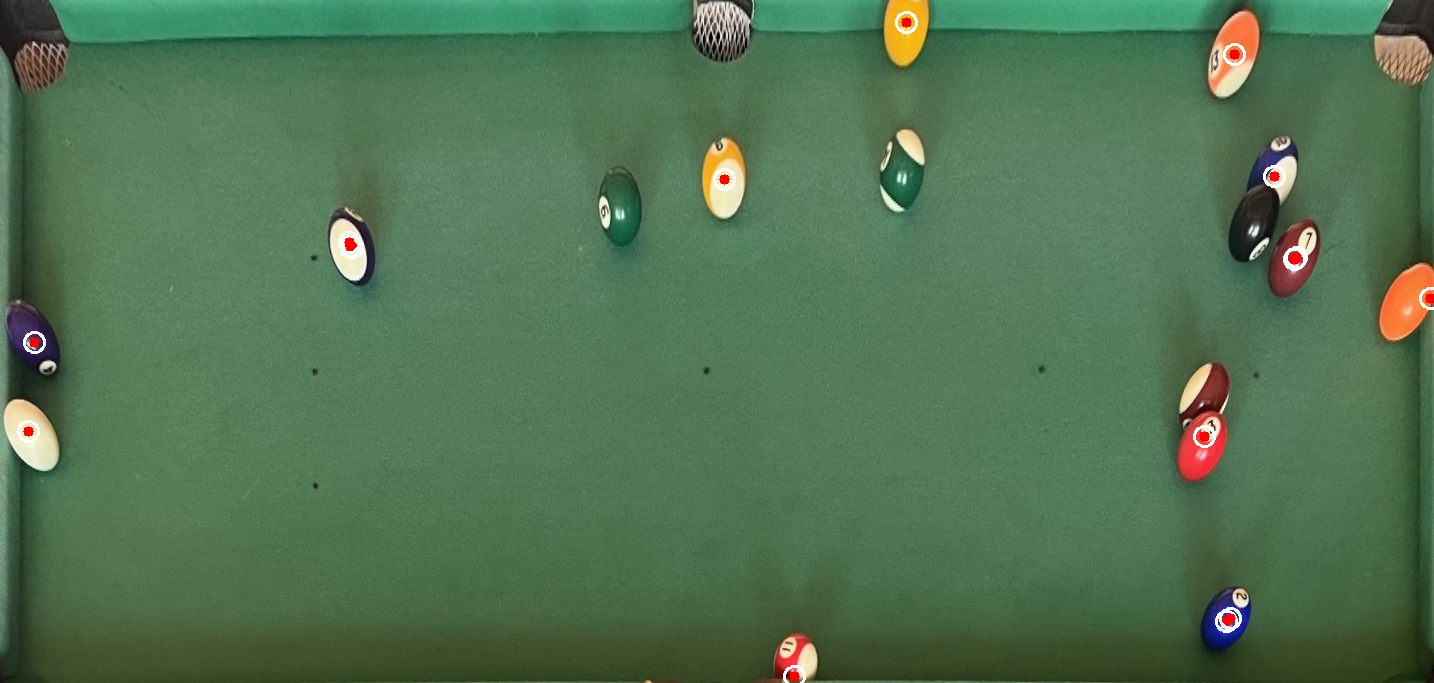
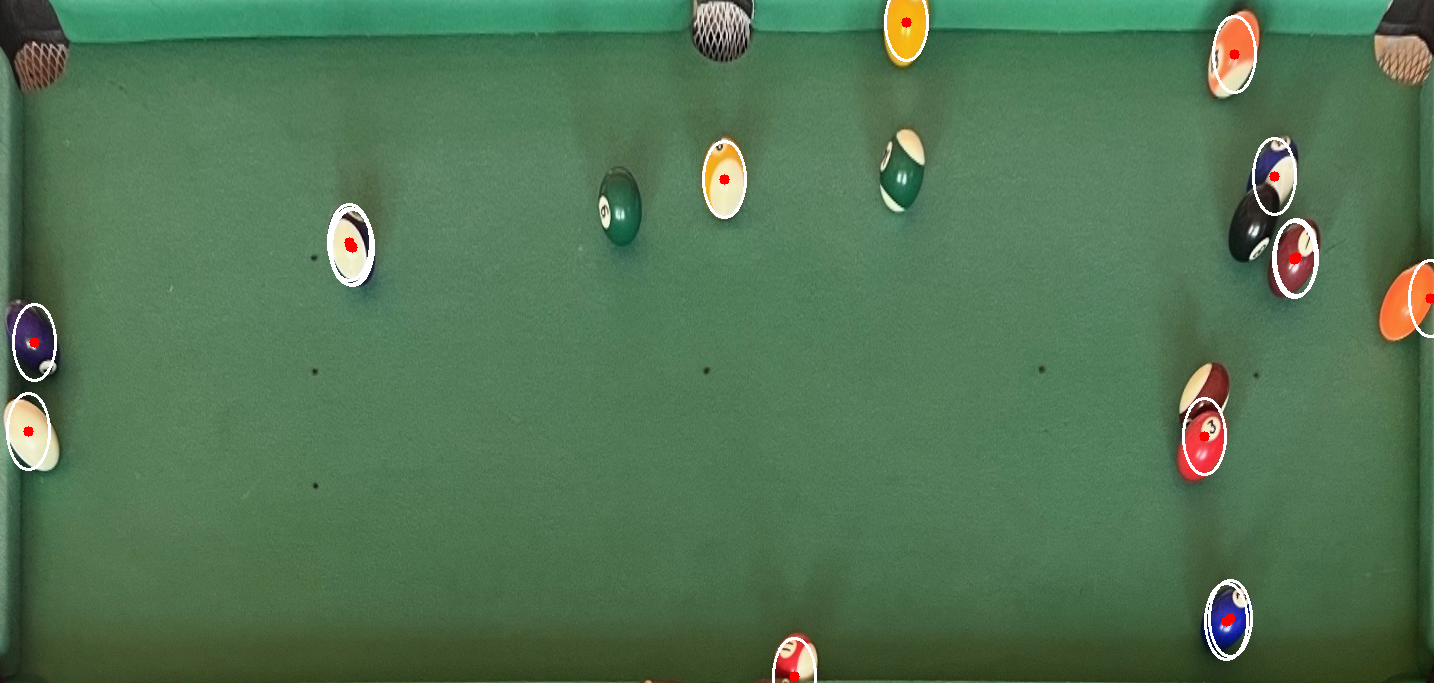
stage 1 finished hopefully, might need to go back and tweak later

diff --git a/OpenCVExample/MyApplication.cpp b/OpenCVExample/MyApplication.cpp
@@ -1,4 +1,5 @@
 #include "Utilities.h"
+#include <algorithm>
 
 // Step 1: warp the camera image to the top-down table view (683 rows x 1434 cols)
 Mat WarpToTable(const Mat& src)
@@ -91,6 +92,7 @@ Mat BallMask(const Mat& background)
 	return balls;
 }
 
+// distance transform function
 vector<Point2f> FindBallsDT(const Mat& ball_mask, double row_scale = 0.6,
                             double min_radius = 12.0, int window = 21)
 {
@@ -122,7 +124,7 @@ vector<Point2f> FindBallsDT(const Mat& ball_mask, double row_scale = 0.6,
 	return centres;
 }
 
-// trying to remove pockets so they don't count as ablls 
+// trying to remove pockets so they don't count as balls 
 void RemovePocketDetections(vector<Point2f>& centres, double pocket_radius = 85.0)
 {
 	// Pockets visible in the rectified image, as (x = column, y = row)
@@ -142,15 +144,172 @@ void RemovePocketDetections(vector<Point2f>& centres, double pocket_radius = 85.
 	centres = kept;
 }
 
+// trying to cut the pocketts out of the ball mask so they don't count as balls
+void BlankPockets(Mat& ball_mask, int radius = 65)
+{
+	// Pockets visible in the rectified image, as (x = column, y = row)
+	Point pockets[3] = { Point(0, 0), Point(717, 0), Point(1433, 0) };
+	for (int p = 0; p < 3; p++)
+		circle(ball_mask, pockets[p], radius, Scalar(0), FILLED);
+}
+
+// hough circles function
+vector<Point2f> FindBallsHough(const Mat& table, double row_scale = 0.6, double param2 = 13.0)
+{
+	// Grey, smoothed (to suppress cloth texture), then rows squashed so balls are roughly round
+	Mat grey, blurred, squashed;
+	cvtColor(table, grey, COLOR_BGR2GRAY);
+	GaussianBlur(grey, blurred, Size(7, 7), 1.5);
+	resize(blurred, squashed, Size(), 1.0, row_scale);
+
+	// dp = 1 min distance between centres = 22, Canny upper threshold = 100
+	// accumulator threshold = param2, radius range 16 to 24 pixels
+	vector<Vec3f> circles;
+	HoughCircles(squashed, circles, HOUGH_GRADIENT, 1, 22, 100, param2, 16, 24);
+
+	vector<Point2f> centres;
+	for (size_t i = 0; i < circles.size(); i++)
+		centres.push_back(Point2f(circles[i][0], circles[i][1] / (float)row_scale));   // x = column, y = row
+	return centres;
+}
+
+// combining both distance transform and hough circles detections
+vector<Point2f> CombineDetections(const vector<Point2f>& hough, const vector<Point2f>& dt,
+                                  double min_separation = 30.0, double row_scale = 0.6)
+{
+	vector<Point2f> combined = hough;                    // keep every Hough detection
+	for (size_t i = 0; i < dt.size(); i++)
+	{
+		bool covered = false;
+		for (size_t j = 0; j < hough.size(); j++)
+		{
+			double dx = dt[i].x - hough[j].x;
+			double dy = (dt[i].y - hough[j].y) * row_scale;   // measure where balls are roughly round
+			if (sqrt(dx * dx + dy * dy) < min_separation) covered = true;
+		}
+		if (!covered) combined.push_back(dt[i]);            // distance-transform dot with no Hough dot nearby
+	}
+	return combined;
+}
+
 void DrawBalls(Mat& image, const vector<Point2f>& centres, Scalar colour)
 {
 	for (size_t i = 0; i < centres.size(); i++)
 {
 	Point p(cvRound(centres[i].x), cvRound(centres[i].y));
-	circle(image, p, 10, Scalar(255, 255, 255), 2);   // white ring
-	circle(image, p, 5, colour, FILLED);
+	ellipse(image, p, Size(21, 38), 0, 0, 360, Scalar(255, 255, 255), 2);   // white ring for expected outline
+	circle(image, p, 5, colour, FILLED);	// expected center 
 }
 }
+
+// evaluation logic 
+const int ground_truth[7][16][2] = {
+	{ // AllBalls.jpeg
+		{253, 908}, {250, 959}, {255, 1013}, {256, 1072}, {254, 1132}, {262, 1184}, {256, 1244}, {253, 1307},
+		{329, 901}, {330, 961}, {334, 1130}, {335, 1013}, {336, 1067}, {342, 1245}, {345, 1187}, {293, 797} },
+	{ // Table1.jpeg
+		{309, 1092}, {429, 1212},  {382, 1133}, {335, 1050}, {285, 1211}, {261, 1170}, {352, 1173}, {331, 1132},
+		{240, 1210}, {310, 1170}, {407, 1169}, {281, 1135}, {374, 1212}, {360, 1091}, {331, 1213}, {288, 29} }, // added {382, 1133} for the missing ball
+	{ // Table2.jpeg
+		{282, 1103}, {620, 1224}, {391, 1121}, {310, 1305}, {315, 1046}, {202, 621}, {361, 1173}, {331, 1132},
+		{177, 725}, {185, 1269}, {665, 798}, {296, 438}, {53, 1235}, {362, 1090}, {399, 1205}, {507, 1169} },
+	{ // Table3.jpeg
+		{23, 908}, {616, 1224}, {447, 1199}, {336, 29}, {305, 1406}, {210, 621}, {260, 1294}, {226, 1252},
+		{177, 725}, {171, 1270}, {665, 798}, {249, 351}, {53, 1233}, {169, 901}, {399, 1201}, {434, 29} },
+	{ // Table4.jpeg
+		{23, 908}, {546, 1407}, {444, 1204}, {-1, -1}, {305, 1406}, {210, 621}, {260, 1294}, {226, 1252},
+		{181, 724}, {171, 1270}, {665, 798}, {249, 351}, {58, 1231}, {169, 901}, {399, 1201}, {88, 1392} },
+	{ // Table5.jpeg
+		{535, 23}, {546, 1407}, {444, 1204}, {-1, -1}, {305, 1406}, {131, 25}, {260, 1294}, {226, 1252},
+		{538, 72}, {171, 1270}, {665, 798}, {249, 351}, {-1, -1}, {169, 901}, {399, 1201}, {608, 26} },
+	{ // Table6.jpeg
+		{535, 23}, {477, 1364}, {444, 1204}, {-1, -1}, {305, 1406}, {131, 25}, {260, 1294}, {226, 1252},
+		{538, 72}, {171, 1270}, {-1, -1}, {249, 351}, {-1, -1}, {169, 901}, {399, 1201}, {629, 947} },
+};
+
+struct DetectionScore
+{
+	int true_positives = 0;
+	int false_positives = 0;
+	int false_negatives = 0;
+	double error_sum = 0.0;      // sum of distances in mm of matched detections
+};
+
+// Compare detections (x = column, y = row) with the ground truth (row, column) for one image
+DetectionScore ScoreDetections(const vector<Point2f>& detections, int image_index, double tolerance = 21.5)
+{
+	struct Candidate { double distance; int truth; int detection; };
+	vector<Candidate> candidates;
+	int truth_count = 0;
+	for (int b = 0; b < 16; b++)
+	{
+		if (ground_truth[image_index][b][0] < 0) continue;       // ball not on the table
+		truth_count++;
+		for (size_t d = 0; d < detections.size(); d++)
+		{
+			double dx = detections[d].x - ground_truth[image_index][b][1];
+			double dy = detections[d].y - ground_truth[image_index][b][0];
+			double distance = sqrt(dx * dx + dy * dy);
+			if (distance <= tolerance)
+			{
+				Candidate c = { distance, b, (int)d };
+				candidates.push_back(c);
+			}
+		}
+	}
+	// One-to-one matching, closest pairs first
+	sort(candidates.begin(), candidates.end(),
+	     [](const Candidate& a, const Candidate& b) { return a.distance < b.distance; });
+	vector<bool> truth_used(16, false), detection_used(detections.size(), false);
+	DetectionScore score;
+	for (size_t i = 0; i < candidates.size(); i++)
+	{
+		if (truth_used[candidates[i].truth] || detection_used[candidates[i].detection]) continue;
+		truth_used[candidates[i].truth] = true;
+		detection_used[candidates[i].detection] = true;
+		score.true_positives++;
+		score.error_sum += candidates[i].distance;
+	}
+	score.false_positives = (int)detections.size() - score.true_positives;
+	score.false_negatives = truth_count - score.true_positives;
+	return score;
+}
+
+void PrintScore(const string& name, const DetectionScore& s)
+{
+	double tp = s.true_positives, fp = s.false_positives, fn = s.false_negatives;
+	double precision = (tp + fp > 0) ? tp / (tp + fp) : 0.0;
+	double recall    = (tp + fn > 0) ? tp / (tp + fn) : 0.0;
+	double f1        = (precision + recall > 0) ? 2 * precision * recall / (precision + recall) : 0.0;
+	double mean_error = (tp > 0) ? s.error_sum / tp : 0.0;
+	cout << name << ": TP " << s.true_positives << " FP " << s.false_positives << " FN " << s.false_negatives
+	     << "  precision " << precision << "  recall " << recall << "  F1 " << f1
+	     << "  mean error " << mean_error << " mm" << endl;
+}
+
+
+
+
+void DrawGroundTruth(Mat& image, int image_index)
+{
+	for (int b = 0; b < 16; b++)
+	{
+		if (ground_truth[image_index][b][0] < 0) continue;     // ball not on the table
+		Point centre(ground_truth[image_index][b][1], ground_truth[image_index][b][0]);
+		drawMarker(image, centre, Scalar(255, 255, 255), MARKER_CROSS, 34, 6);   // white outline
+		drawMarker(image, centre, Scalar(0, 0, 0), MARKER_CROSS, 30, 3);         // black cross on top
+	}
+}
+
+void AddScore(DetectionScore& total, const DetectionScore& s)
+{
+   total.true_positives  += s.true_positives;
+   total.false_positives += s.false_positives;
+   total.false_negatives += s.false_negatives;
+   total.error_sum       += s.error_sum;
+}
+
+
 
 void MyApplication()
 {
@@ -166,6 +325,9 @@ void MyApplication()
 	};
 	int number_of_images = sizeof(pool_files) / sizeof(pool_files[0]);
 
+	DetectionScore total;
+	DetectionScore total_dt, total_hough;
+
 	for (int file_no = 0; file_no < number_of_images; file_no++)
 	{
 		string filename(file_location);
@@ -180,24 +342,63 @@ void MyApplication()
 		Mat table = WarpToTable(image);
 		Mat background = BackgroundMask(table);
 		Mat ball_mask = BallMask(background);
+		BlankPockets(ball_mask);
 
+		//1: distance transform
 		vector<Point2f> dt_balls = FindBallsDT(ball_mask);
 		RemovePocketDetections(dt_balls);
-
 		Mat show_dt = table.clone();
-		DrawBalls(show_dt, dt_balls, Scalar(0, 0, 255));
-		cout << pool_files[file_no] << ": " << dt_balls.size() << " balls found" << endl;
-		imshow(string(pool_files[file_no]) + " - DT detections", show_dt);
-		imwrite(string("out_") + pool_files[file_no] + "_step4_dt.png", show_dt);
+		DrawBalls(show_dt, dt_balls, Scalar(0, 0, 255));          // red
 
+		//2: Hough circles
+		vector<Point2f> hough_balls = FindBallsHough(table);
+		RemovePocketDetections(hough_balls);
+		Mat show_hough = table.clone();
+		DrawBalls(show_hough, hough_balls, Scalar(255, 0, 0));    // blue
 
+		// 3: combining the two detections 
+		vector<Point2f> final_balls = CombineDetections(hough_balls, dt_balls);
+		Mat show_final = table.clone();
+		DrawBalls(show_final, final_balls, Scalar(0, 200, 0));    // green
 		
-		waitKey();;
+		cout << pool_files[file_no] << ": DT " << dt_balls.size()
+    		 << ", Hough " << hough_balls.size()
+     		 << ", combined " << final_balls.size() << endl;
 
-		destroyWindow(string(pool_files[file_no]) + " - DT detections");
+		DetectionScore score = ScoreDetections(final_balls, file_no);
+		PrintScore(pool_files[file_no], score);
+				
+		if (file_no > 0)          // pooled totals use Table1 to Table6 only
+		{
+		    AddScore(total,       score);
+		    AddScore(total_dt,    ScoreDetections(dt_balls, file_no));
+		    AddScore(total_hough, ScoreDetections(hough_balls, file_no));
+		}
+
+		DrawGroundTruth(show_final, file_no);
+
+		// imshow(string(pool_files[file_no]) + " - DT (red)", show_dt);
+		// imshow(string(pool_files[file_no]) + " - Hough (blue)", show_hough);
+
+		imshow(string(pool_files[file_no]) + " - combined (green)", show_final);
+		
+
+		waitKey();
+
+		// destroyWindow(string(pool_files[file_no]) + " - DT (red)");
+		// destroyWindow(string(pool_files[file_no]) + " - Hough (blue)");
+		destroyWindow(string(pool_files[file_no]) + " - combined (green)");
 
 		imwrite(string("out_") + pool_files[file_no] + "_step2_background.png", background);
 		imwrite(string("out_") + pool_files[file_no] + "_step3_ball_mask.png", ball_mask);
 		imwrite(string("out_") + pool_files[file_no] + "_step4_dt.png", show_dt);
+		imwrite(string("out_") + pool_files[file_no] + "_step5_hough.png", show_hough);
+		imwrite(string("out_") + pool_files[file_no] + "_step6_combined.png", show_final);
 	}
+
+
+	PrintScore("TOTAL Table1-6", total);
+   	PrintScore("TOTAL DT only", total_dt);
+  	PrintScore("TOTAL Hough only", total_hough);
 }
+	
